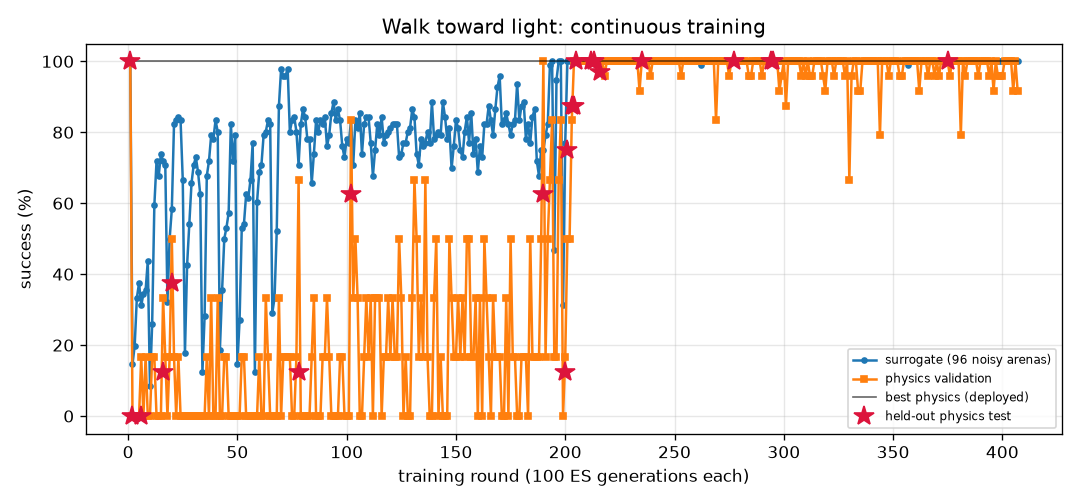
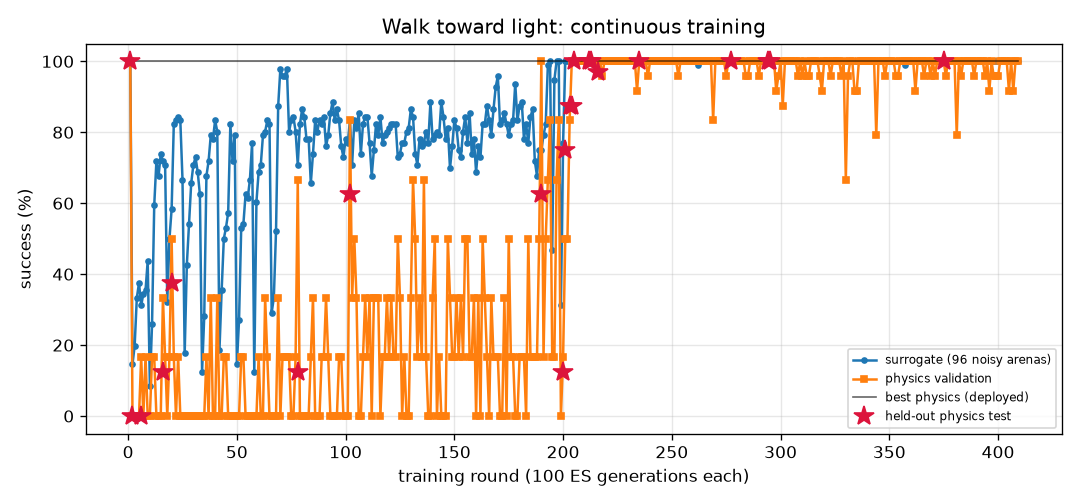
FlyLab: continuous training progress
- walk_forward: optimal, physics val 100% of 24, round 259
- turn: optimal, physics val 100% of 24, round 803
- goto: optimal, physics val 100% of 24, round 213
- odor_seek: optimal, physics val 100% of 24, round 182
- odor_avoid: optimal, physics val 100% of 24, round 733
- light_seek: optimal, physics val 100% of 24, round 409
- light_avoid: optimal, physics val 100% of 24, round 467

diff --git a/projects/09_flylab/training/light_seek/REPORT.md b/projects/09_flylab/training/light_seek/REPORT.md
@@ -1,14 +1,14 @@
 # Walk toward light (`light_seek`) — training report
 
-*Auto-generated by `train_brains.py`, last updated 2026-11-01T23:11:14.*
+*Auto-generated by `train_brains.py`, last updated 2026-11-02T00:22:20.*
 
 ![curve](curve.png)
 
 | | |
 |---|---|
-| rounds | 407 |
-| ES generations | 40700 |
-| physics runs | 6648 |
+| rounds | 409 |
+| ES generations | 40900 |
+| physics runs | 6696 |
 | status | **optimal** |
 | best brain | round 375: physics validation **100%** on 24 arenas, surrogate 100% |
 | held-out physics test | **100%** on 32 unseen arenas (95% CI 89%-100%) (errors: [0.57, 0.54, 0.53, 0.57, 0.55, 0.56, 0.59, 0.56, 0.53, 0.56, 0.71, 0.56, 0.55, 0.54, 0.53, 0.54, 0.54, 0.55, 0.52, 0.65, 0.64, 0.7, 0.58, 0.57, 0.6, 0.62, 0.55, 0.88, 0.54, 0.52, 0.62, 0.57]) |
@@ -17,8 +17,6 @@ Physics error per arena: mm from target at the end (< 1.5 and standing still = s
 
 | round | level | gens | sigma | surrogate | physics val | val errors | test | note |
 |---:|---:|---:|---:|---:|---:|---|---:|---|
-| 368 | 3 | 36800 | 0.024 | 100% | 100% | [1.1, 0.58, 0.55, 0.66, 0.54, 0.55, 0.65, 0.74, 0.57, 0.61, 0.58, 0.75, 0.59, 0.69, 0.61, 0.6, 0.56, 0.59, 0.57, 0.61, 0.57, 0.59, 1.18, 0.71] |  |  |
-| 369 | 3 | 36900 | 0.024 | 100% | 96% | [0.94, 0.46, 0.46, 0.64, 0.55, 0.45, 0.56, 0.57, 0.5, 0.54, 1.64, 0.54, 0.49, 0.52, 1.39, 0.58, 0.92, 1.01, 0.52, 0.55, 1.09, 0.51, 0.96, 0.5] |  |  |
 | 370 | 3 | 37000 | 0.024 | 100% | 100% | [0.52, 0.43, 0.42, 0.45, 0.43, 0.4, 0.41, 0.43, 0.84, 0.44, 0.55, 0.44, 0.4, 0.75, 0.43, 0.43, 0.43, 0.42, 0.56, 0.42, 0.47, 0.43, 0.46, 0.58] |  |  |
 | 371 | 3 | 37100 | 0.024 | 100% | 96% | [0.48, 0.53, 0.58, 0.56, 0.58, 0.52, 0.54, 0.79, 0.87, 0.56, 0.66, 0.62, 0.49, 1.0, 0.64, 0.51, 0.56, 0.53, 0.62, 0.56, 0.52, 0.5, 0.56, 0.53] |  | restart from best |
 | 372 | 3 | 37200 | 0.024 | 100% | 100% | [0.65, 0.66, 0.58, 0.59, 0.61, 0.65, 0.63, 0.78, 0.81, 0.65, 0.79, 0.73, 0.72, 0.65, 0.62, 0.61, 0.62, 0.64, 0.61, 0.62, 0.61, 0.83, 0.63, 0.63] |  |  |
@@ -57,3 +55,5 @@ Physics error per arena: mm from target at the end (< 1.5 and standing still = s
 | 405 | 3 | 40500 | 0.024 | 100% | 92% | [1.78, 0.52, 0.49, 0.59, 0.58, 0.48, 0.56, 0.58, 1.91, 0.52, 0.51, 0.54, 0.5, 0.51, 0.67, 0.49, 0.58, 0.54, 0.47, 1.4, 0.58, 0.53, 0.51, 0.51] |  |  |
 | 406 | 3 | 40600 | 0.024 | 100% | 100% | [0.62, 0.54, 0.55, 0.57, 0.64, 0.75, 0.63, 0.66, 0.82, 0.56, 0.56, 0.62, 0.58, 0.59, 0.56, 0.57, 0.54, 0.55, 0.6, 0.62, 0.61, 0.77, 0.57, 0.58] |  |  |
 | 407 | 3 | 40700 | 0.024 | 100% | 92% | [0.68, 0.97, 0.6, 0.74, 0.69, 0.74, 0.68, 0.96, 0.68, 0.69, 0.62, 0.71, 0.73, 1.71, 0.62, 1.18, 0.64, 0.77, 0.7, 0.68, 2.61, 0.74, 0.6, 0.7] |  | restart from best |
+| 408 | 3 | 40800 | 0.024 | 100% | 100% | [0.62, 0.61, 0.54, 0.55, 0.54, 0.67, 0.63, 0.61, 0.6, 0.49, 0.53, 0.68, 0.54, 0.63, 0.66, 0.6, 0.57, 0.52, 0.57, 0.71, 1.04, 0.67, 0.62, 0.67] |  |  |
+| 409 | 3 | 40900 | 0.024 | 100% | 100% | [0.75, 0.51, 0.58, 0.81, 0.61, 0.62, 0.64, 0.7, 0.66, 0.79, 0.55, 0.61, 0.58, 0.64, 0.68, 0.62, 0.62, 0.56, 0.55, 0.6, 0.72, 0.69, 0.61, 0.74] |  |  |

diff --git a/projects/09_flylab/training/light_avoid/REPORT.md b/projects/09_flylab/training/light_avoid/REPORT.md
@@ -1,14 +1,14 @@
 # Hide from light (`light_avoid`) — training report
 
-*Auto-generated by `train_brains.py`, last updated 2026-11-01T23:17:11.*
+*Auto-generated by `train_brains.py`, last updated 2026-11-01T23:38:53.*
 
 ![curve](curve.png)
 
 | | |
 |---|---|
-| rounds | 466 |
-| ES generations | 46600 |
-| physics runs | 11456 |
+| rounds | 467 |
+| ES generations | 46700 |
+| physics runs | 11480 |
 | status | **optimal** |
 | best brain | round 159: physics validation **100%** on 24 arenas, surrogate 100% |
 | held-out physics test | **100%** on 32 unseen arenas (95% CI 89%-100%) (errors: [14.4, 56.1, 58.0, 57.9, 57.5, 14.0, 14.4, 56.6, 56.8, 13.3, 14.1, 56.6, 57.6, 13.1, 57.3, 55.9, 57.2, 55.0, 55.2, 53.9, 55.2, 12.4, 53.8, 53.7, 14.1, 13.7, 55.0, 57.8, 56.2, 13.1, 52.8, 56.5]) |
@@ -17,7 +17,6 @@ Physics error per arena: mm gained away from source (> 6 without first approachi
 
 | round | level | gens | sigma | surrogate | physics val | val errors | test | note |
 |---:|---:|---:|---:|---:|---:|---|---:|---|
-| 427 | 3 | 42700 | 0.024 | 100% | 100% | [56.6, 59.4, 59.4, 56.9, 56.8, 57.0, 58.8, 14.5, 55.3, 13.3, 57.3, 56.7, 14.4, 58.3, 59.4, 56.1, 14.2, 57.8, 59.5, 14.4, 57.0, 58.4, 58.4, 55.8] |  | restart from best |
 | 428 | 3 | 42800 | 0.024 | 100% | 100% | [37.0, 36.7, 36.7, 37.9, 38.5, 36.9, 35.5, 14.5, 38.7, 13.1, 39.5, 39.3, 14.3, 39.6, 36.0, 38.2, 14.2, 38.8, 36.6, 14.4, 34.5, 40.6, 33.1, 39.0] |  |  |
 | 429 | 3 | 42900 | 0.024 | 100% | 100% | [47.7, 49.0, 48.4, 49.2, 53.2, 47.2, 46.2, 14.5, 52.0, 12.8, 53.1, 52.7, 14.4, 52.0, 48.4, 48.3, 14.2, 52.2, 49.9, 14.4, 48.8, 53.0, 47.3, 53.2] |  |  |
 | 430 | 3 | 43000 | 0.024 | 100% | 100% | [56.0, 58.2, 57.8, 54.4, 58.1, 54.6, 56.5, 14.5, 41.2, 13.3, 54.0, 58.0, 14.4, 57.2, 58.0, 56.7, 14.2, 58.5, 58.5, 14.4, 55.1, 54.3, 56.3, 57.5] |  |  |
@@ -57,3 +56,4 @@ Physics error per arena: mm gained away from source (> 6 without first approachi
 | 464 | 3 | 46400 | 0.024 | 100% | 100% | [50.2, 54.4, 53.8, 51.2, 55.5, 51.5, 52.3, 14.5, 50.0, 13.4, 54.1, 55.5, 14.4, 53.7, 54.2, 51.2, 14.2, 55.8, 54.3, 14.4, 52.3, 54.4, 52.5, 55.1] |  |  |
 | 465 | 3 | 46500 | 0.024 | 100% | 100% | [49.3, 53.3, 52.9, 50.7, 54.6, 50.5, 51.4, 14.5, 52.5, 48.3, 54.1, 54.4, 14.4, 52.7, 53.1, 49.9, 14.2, 54.7, 53.2, 14.4, 52.8, 54.1, 51.7, 53.9] |  |  |
 | 466 | 3 | 46600 | 0.024 | 100% | 100% | [48.5, 50.0, 50.0, 48.6, 46.7, 48.5, 49.9, 14.5, 36.6, 13.3, 49.8, 46.3, 14.4, 45.6, 50.1, 48.4, 14.2, 47.6, 49.7, 14.4, 47.7, 50.1, 49.3, 45.6] |  |  |
+| 467 | 3 | 46700 | 0.024 | 100% | 100% | [43.3, 44.3, 44.0, 42.6, 41.1, 41.9, 45.2, 14.5, 38.8, 13.4, 43.0, 40.3, 14.4, 40.8, 44.1, 41.4, 14.2, 42.3, 43.9, 14.4, 40.2, 42.2, 44.1, 40.5] |  | restart from best |

diff --git a/projects/09_flylab/training/walk_forward/REPORT.md b/projects/09_flylab/training/walk_forward/REPORT.md
@@ -1,14 +1,14 @@
 # Walk forward (`walk_forward`) — training report
 
-*Auto-generated by `train_brains.py`, last updated 2026-11-01T20:44:09.*
+*Auto-generated by `train_brains.py`, last updated 2026-11-02T00:08:43.*
 
 ![curve](curve.png)
 
 | | |
 |---|---|
-| rounds | 258 |
-| ES generations | 25800 |
-| physics runs | 6206 |
+| rounds | 259 |
+| ES generations | 25900 |
+| physics runs | 6230 |
 | status | **optimal** |
 | best brain | round 116: physics validation **100%** on 24 arenas, surrogate 100% |
 | held-out physics test | **100%** on 32 unseen arenas (95% CI 89%-100%) (errors: [0.13, 0.16, 0.19, 0.16, 0.15, 0.2, 0.17, 0.18, 0.17, 0.19, 0.2, 0.14, 0.17, 0.19, 0.2, 0.2, 0.13, 0.19, 0.16, 0.2, 0.2, 0.16, 0.17, 0.2, 0.13, 0.15, 0.18, 0.14, 0.16, 0.15, 0.19, 0.12]) |
@@ -17,7 +17,6 @@ Physics error per arena: mm from target at the end (< 1.5 and standing still = s
 
 | round | level | gens | sigma | surrogate | physics val | val errors | test | note |
 |---:|---:|---:|---:|---:|---:|---|---:|---|
-| 219 | 3 | 21900 | 0.024 | 100% | 100% | [0.23, 0.27, 0.19, 0.23, 0.27, 0.18, 0.27, 0.2, 0.27, 0.27, 0.17, 0.25, 0.19, 0.18, 0.25, 0.27, 0.23, 0.27, 0.2, 0.25, 0.21, 0.27, 0.25, 0.19] |  |  |
 | 220 | 3 | 22000 | 0.024 | 100% | 100% | [0.31, 0.33, 0.25, 0.31, 0.34, 0.25, 0.33, 0.28, 0.34, 0.34, 0.24, 0.31, 0.27, 0.26, 0.33, 0.32, 0.3, 0.35, 0.28, 0.34, 0.28, 0.33, 0.3, 0.27] |  | restart from best |
 | 221 | 3 | 22100 | 0.024 | 99% | 100% | [0.24, 0.24, 0.19, 0.24, 0.24, 0.18, 0.24, 0.2, 0.23, 0.22, 0.17, 0.2, 0.2, 0.18, 0.24, 0.21, 0.23, 0.24, 0.21, 0.24, 0.22, 0.22, 0.2, 0.2] |  |  |
 | 222 | 3 | 22200 | 0.025 | 100% | 96% | [0.19, 0.15, 0.1, 0.1, 0.13, 0.07, 0.11, 0.06, 0.11, 0.12, 0.07, 0.16, 0.06, 0.09, 0.08, 0.16, 0.11, 0.1, 0.06, 0.05, 0.11, 0.12, 0.17, 0.06] |  |  |
@@ -57,3 +56,4 @@ Physics error per arena: mm from target at the end (< 1.5 and standing still = s
 | 256 | 3 | 25600 | 0.024 | 100% | 100% | [0.23, 0.32, 0.24, 0.23, 0.31, 0.24, 0.32, 0.25, 0.32, 0.35, 0.24, 0.35, 0.25, 0.25, 0.24, 0.34, 0.23, 0.28, 0.24, 0.24, 0.24, 0.35, 0.34, 0.25] |  | restart from best |
 | 257 | 3 | 25700 | 0.024 | 100% | 100% | [0.24, 0.28, 0.17, 0.23, 0.27, 0.17, 0.27, 0.17, 0.27, 0.27, 0.17, 0.25, 0.17, 0.17, 0.25, 0.25, 0.22, 0.28, 0.18, 0.26, 0.19, 0.27, 0.24, 0.18] |  |  |
 | 258 | 3 | 25800 | 0.024 | 100% | 88% | [0.1, 0.13, 0.72, 0.06, 0.1, 0.08, 0.18, 0.02, 0.12, 0.11, 0.13, 0.19, 0.06, 0.54, 0.23, 0.11, 0.05, 0.21, 0.41, 0.2, 0.09, 0.18, 0.12, 0.05] |  |  |
+| 259 | 3 | 25900 | 0.024 | 100% | 100% | [0.28, 0.28, 0.22, 0.28, 0.28, 0.2, 0.28, 0.24, 0.28, 0.25, 0.19, 0.23, 0.24, 0.21, 0.29, 0.24, 0.28, 0.29, 0.25, 0.28, 0.26, 0.25, 0.23, 0.24] |  |  |

diff --git a/projects/09_flylab/training/TRAINING.md b/projects/09_flylab/training/TRAINING.md
@@ -1,15 +1,15 @@
 # FlyLab brains — continuous training log
 
-*Auto-generated by `train_brains.py`, last updated 2026-11-01T23:17:11.*
+*Auto-generated by `train_brains.py`, last updated 2026-11-02T00:22:20.*
 
 Every skill has its own brain and its own training process: surrogate ES rounds, physics validation in MuJoCo, keep-the-best selection, and a held-out physics test that is never used for selection. See each skill's report for its full round-by-round history. Mastery is progressive: passing a level (100% physics validation, >=95% surrogate) doubles the validation and test arena sets; a brain is **optimal** once it holds up at level 3 (>=95% of 24 validation arenas) AND scores >=90% on the 32 held-out test arenas. Test columns show 95% Wilson confidence intervals.
 
 | skill | rounds | ES generations | physics runs | surrogate | physics val | **physics test** | status |
 |---|---:|---:|---:|---:|---:|---:|---|
-| [Walk forward](walk_forward/REPORT.md) | 258 | 25800 | 6206 | 100% | 100% of 24 | 100% of 32 (CI 89-100%) | **optimal** |
+| [Walk forward](walk_forward/REPORT.md) | 259 | 25900 | 6230 | 100% | 100% of 24 | 100% of 32 (CI 89-100%) | **optimal** |
 | [Turn in place](turn/REPORT.md) | 803 | 80300 | 19518 | 100% | 100% of 24 | 97% of 32 (CI 84-99%) | **optimal** |
 | [Go to a location](goto/REPORT.md) | 213 | 21300 | 5062 | 100% | 100% of 24 | 100% of 32 (CI 89-100%) | **optimal** |
 | [Find food by smell](odor_seek/REPORT.md) | 182 | 18200 | 3798 | 100% | 100% of 24 | 100% of 32 (CI 89-100%) | **optimal** |
 | [Escape a bad smell](odor_avoid/REPORT.md) | 733 | 73300 | 14898 | 97% | 100% of 24 | 97% of 32 (CI 84-99%) | **optimal** |
-| [Walk toward light](light_seek/REPORT.md) | 407 | 40700 | 6648 | 100% | 100% of 24 | 100% of 32 (CI 89-100%) | **optimal** |
-| [Hide from light](light_avoid/REPORT.md) | 466 | 46600 | 11456 | 100% | 100% of 24 | 100% of 32 (CI 89-100%) | **optimal** |
+| [Walk toward light](light_seek/REPORT.md) | 409 | 40900 | 6696 | 100% | 100% of 24 | 100% of 32 (CI 89-100%) | **optimal** |
+| [Hide from light](light_avoid/REPORT.md) | 467 | 46700 | 11480 | 100% | 100% of 24 | 100% of 32 (CI 89-100%) | **optimal** |
